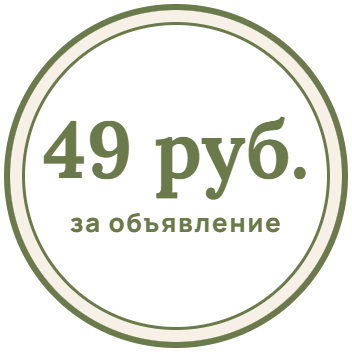
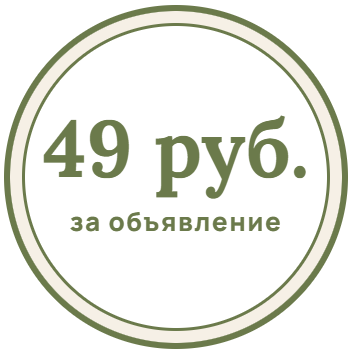
Убраны непроверенные факты из макетов
- «Почему у нас»: 49 руб., Без регистрации, Напрямую — без цифр и обещаний
- B: в телефоне «канал в Телеграме» вместо числа подписчиков
- Примеры: «Так будет выглядеть ваше объявление», без счетчиков просмотров
- FAQ: новые ответы про публикацию и запреты, убраны «процентов нет» и «удалим пост»
- Обновлены превью и PNG для Zero Block

Claude-Session: https://claude.ai/code/session_0134apRguhkK7nHMWZoqjHc8

diff --git a/variant-b/index.html b/variant-b/index.html
@@ -281,7 +281,6 @@ a { color: inherit; }
   color: #8A94A3;
   font-size: 11px;
 }
-.bubble-meta svg { width: 13px; height: 13px; }
 .inline-btn {
   display: block;
   margin-top: 5px;
@@ -422,7 +421,6 @@ a { color: inherit; }
   margin-top: 4px;
   color: #8A94A3; font-size: 12px;
 }
-.post-meta svg { width: 14px; height: 14px; }
 .post-btn {
   display: block;
   margin-top: 6px;
@@ -441,7 +439,7 @@ a { color: inherit; }
 .fact-blue { background: var(--tg); }
 .fact-white { background: var(--white); }
 .fact-sun { background: var(--sun); }
-.fact-big { font: 700 44px/1 var(--display); letter-spacing: -.04em; }
+.fact-big { font: 700 clamp(26px, 7.4vw, 32px)/1.05 var(--display); letter-spacing: -.04em; }
 .fact-label { margin-top: 10px; font-weight: 700; font-size: 17px; }
 .fact-text { margin-top: 6px; color: #1E2228; }
 
@@ -596,7 +594,6 @@ textarea.input { min-height: 112px; resize: vertical; }
   .feed { padding: 24px; }
   .field-row { grid-template-columns: 1fr 1fr; }
   .form-card { padding: 32px; }
-  .facts { grid-template-columns: repeat(3, minmax(0, 1fr)); }
 }
 
 /* ================= десктоп ================= */
@@ -660,10 +657,10 @@ textarea.input { min-height: 112px; resize: vertical; }
   .posts { grid-template-columns: repeat(4, minmax(0, 1fr)); gap: 18px; align-items: end; }
   .post-bubble img { aspect-ratio: 1; }
 
-  .facts { grid-template-columns: 1.2fr 1fr 1fr; gap: 16px; margin-top: 44px; }
-  .fact { padding: 34px 32px 36px; border-radius: var(--r-xl); min-height: 300px; display: flex; flex-direction: column; }
-  .fact-big { font-size: 60px; }
-  .fact-label { margin-top: auto; padding-top: 28px; font-size: 18px; }
+  .facts { grid-template-columns: minmax(0, 1fr) minmax(0, 1.35fr) minmax(0, 1fr); gap: 0 16px; margin-top: 44px; }
+  .fact { display: grid; grid-row: span 3; grid-template-rows: subgrid; row-gap: 0; padding: 34px 32px 36px; border-radius: var(--r-xl); }
+  .fact-big { font-size: clamp(26px, 2.5vw, 36px); }
+  .fact-label { margin-top: 64px; font-size: 18px; }
 
   .form-grid { grid-template-columns: minmax(0, 5fr) minmax(0, 7fr); gap: 64px; align-items: start; }
   .form-intro { padding-top: 20px; }
@@ -736,7 +733,7 @@ textarea.input { min-height: 112px; resize: vertical; }
               <div class="tg-head">
                 <svg class="back" viewBox="0 0 24 24"><path fill="none" stroke="currentColor" stroke-width="2.4" stroke-linecap="round" stroke-linejoin="round" d="M15 5 8 12l7 7"/></svg>
                 <span class="tg-ava"><svg viewBox="0 0 24 24"><path fill="#fff" d="M11.2 3.6h7.4c1 0 1.8.8 1.8 1.8v7.4c0 .5-.2.9-.5 1.3l-7.6 7.6c-.7.7-1.8.7-2.5 0l-6.5-6.5c-.7-.7-.7-1.8 0-2.5l7.6-7.6c.4-.3.8-.5 1.3-.5Zm4.9 2.5a1.8 1.8 0 1 0 0 3.6 1.8 1.8 0 0 0 0-3.6Z"/></svg></span>
-                <div><p class="tg-title">BLOSHINKA.com</p><p class="tg-subs">12&nbsp;400 подписчиков</p></div>
+                <div><p class="tg-title">BLOSHINKA.com</p><p class="tg-subs">канал в Телеграме</p></div>
                 <svg class="more" viewBox="0 0 24 24"><g fill="currentColor"><circle cx="12" cy="5" r="2"/><circle cx="12" cy="12" r="2"/><circle cx="12" cy="19" r="2"/></g></svg>
               </div>
               <div class="tg-chat">
@@ -748,7 +745,7 @@ textarea.input { min-height: 112px; resize: vertical; }
                     <p>Снимал все наши семейные праздники. Рабочий, с чехлом.</p>
                     <p>Цена: 3&nbsp;500&nbsp;₽<br>Город: Тюмень</p>
                     <p class="bubble-tags">#техника #винтаж</p>
-                    <p class="bubble-meta"><svg viewBox="0 0 24 24"><path fill="none" stroke="currentColor" stroke-width="2" d="M2 12s3.6-6.5 10-6.5S22 12 22 12s-3.6 6.5-10 6.5S2 12 2 12Z"/><circle cx="12" cy="12" r="2.8" fill="none" stroke="currentColor" stroke-width="2"/></svg>912&nbsp;&nbsp;12:40</p>
+                    <p class="bubble-meta">12:40</p>
                   </div>
                 </div>
                 <span class="inline-btn">Написать продавцу</span>
@@ -803,7 +800,7 @@ textarea.input { min-height: 112px; resize: vertical; }
   <section class="section section-gray" id="what" aria-labelledby="what-title">
     <div class="wrap">
       <h2 class="h2" id="what-title">Что можно продавать</h2>
-      <p class="lead">Если вещь вам больше не нужна, она найдет своего человека.</p>
+      <p class="lead">Вещи, которые вам больше не нужны, могут пригодиться кому-то еще.</p>
       <ul class="cats">
         <li class="cat">
           <span class="cat-icon"><img src="../assets/b/icon-clothes.svg" alt="" width="48" height="48"></span>
@@ -843,7 +840,7 @@ textarea.input { min-height: 112px; resize: vertical; }
   <section class="section" id="examples" aria-labelledby="examples-title">
     <div class="wrap">
       <h2 class="h2" id="examples-title">Примеры объявлений</h2>
-      <p class="lead">Так выглядят посты в канале. У каждой вещи своя история.</p>
+      <p class="lead">Так будет выглядеть ваше объявление в канале. У каждой вещи своя история.</p>
       <div class="feed">
         <div class="posts">
 
@@ -855,7 +852,7 @@ textarea.input { min-height: 112px; resize: vertical; }
                 <p>Досталась от дедушки. Все клавиши работают, лента новая.</p>
                 <p class="post-facts"><span>Цена: <b>7&nbsp;500&nbsp;₽</b></span><span>Город: Тюмень</span></p>
                 <p class="post-tags">#техника #винтаж</p>
-                <p class="post-meta"><svg viewBox="0 0 24 24" aria-hidden="true"><path fill="none" stroke="currentColor" stroke-width="2" d="M2 12s3.6-6.5 10-6.5S22 12 22 12s-3.6 6.5-10 6.5S2 12 2 12Z"/><circle cx="12" cy="12" r="2.8" fill="none" stroke="currentColor" stroke-width="2"/></svg>846&nbsp;&nbsp;14:32</p>
+                <p class="post-meta">14:32</p>
               </div>
             </div>
             <span class="post-btn" aria-hidden="true">Написать продавцу</span>
@@ -869,7 +866,7 @@ textarea.input { min-height: 112px; resize: vertical; }
                 <p>Плотный деним, носил пару сезонов. Без потертостей и пятен.</p>
                 <p class="post-facts"><span>Цена: <b>2&nbsp;800&nbsp;₽</b></span><span>Город: Екатеринбург</span></p>
                 <p class="post-tags">#одежда</p>
-                <p class="post-meta"><svg viewBox="0 0 24 24" aria-hidden="true"><path fill="none" stroke="currentColor" stroke-width="2" d="M2 12s3.6-6.5 10-6.5S22 12 22 12s-3.6 6.5-10 6.5S2 12 2 12Z"/><circle cx="12" cy="12" r="2.8" fill="none" stroke="currentColor" stroke-width="2"/></svg>612&nbsp;&nbsp;12:05</p>
+                <p class="post-meta">12:05</p>
               </div>
             </div>
             <span class="post-btn" aria-hidden="true">Написать продавцу</span>
@@ -883,7 +880,7 @@ textarea.input { min-height: 112px; resize: vertical; }
                 <p>Жил на полке, в него почти не играли. Ищет новый дом.</p>
                 <p class="post-facts"><span>Цена: <b>1&nbsp;200&nbsp;₽</b></span><span>Город: Тобольск</span></p>
                 <p class="post-tags">#детские_вещи</p>
-                <p class="post-meta"><svg viewBox="0 0 24 24" aria-hidden="true"><path fill="none" stroke="currentColor" stroke-width="2" d="M2 12s3.6-6.5 10-6.5S22 12 22 12s-3.6 6.5-10 6.5S2 12 2 12Z"/><circle cx="12" cy="12" r="2.8" fill="none" stroke="currentColor" stroke-width="2"/></svg>731&nbsp;&nbsp;10:47</p>
+                <p class="post-meta">10:47</p>
               </div>
             </div>
             <span class="post-btn" aria-hidden="true">Написать продавцу</span>
@@ -897,7 +894,7 @@ textarea.input { min-height: 112px; resize: vertical; }
                 <p>Чашки, пиалы и вазы ручной работы. Продаю вместе или по отдельности, отправлю по России.</p>
                 <p class="post-facts"><span>Цена: <b>3&nbsp;400&nbsp;₽</b></span><span>Город: Москва</span></p>
                 <p class="post-tags">#дом #авторское</p>
-                <p class="post-meta"><svg viewBox="0 0 24 24" aria-hidden="true"><path fill="none" stroke="currentColor" stroke-width="2" d="M2 12s3.6-6.5 10-6.5S22 12 22 12s-3.6 6.5-10 6.5S2 12 2 12Z"/><circle cx="12" cy="12" r="2.8" fill="none" stroke="currentColor" stroke-width="2"/></svg>958&nbsp;&nbsp;09:18</p>
+                <p class="post-meta">09:18</p>
               </div>
             </div>
             <span class="post-btn" aria-hidden="true">Написать продавцу</span>
@@ -913,20 +910,20 @@ textarea.input { min-height: 112px; resize: vertical; }
     <div class="wrap">
       <h2 class="h2" id="why-title">Почему у нас</h2>
       <ul class="facts">
-        <li class="fact fact-blue">
-          <p class="fact-big">12&nbsp;400</p>
-          <p class="fact-label">подписчиков в канале</p>
-          <p class="fact-text">Ваше объявление увидят тысячи людей, которые читают канал каждый день.</p>
-        </li>
-        <li class="fact fact-white">
-          <p class="fact-big">24&nbsp;часа</p>
-          <p class="fact-label">максимум до публикации</p>
-          <p class="fact-text">Обычно пост выходит через несколько часов после оплаты. Ссылку пришлем в Телеграм.</p>
-        </li>
         <li class="fact fact-sun">
           <p class="fact-big">49&nbsp;руб.</p>
           <p class="fact-label">за одно объявление</p>
-          <p class="fact-text">Фиксированная цена без процентов с продажи.</p>
+          <p class="fact-text">Фиксированная цена, оплата переводом после нашего сообщения.</p>
+        </li>
+        <li class="fact fact-blue">
+          <p class="fact-big">Без регистрации</p>
+          <p class="fact-label">заявка прямо на сайте</p>
+          <p class="fact-text">Заполните форму, остальное сделаем мы.</p>
+        </li>
+        <li class="fact fact-white">
+          <p class="fact-big">Напрямую</p>
+          <p class="fact-label">покупатели пишут вам</p>
+          <p class="fact-text">О цене и передаче договариваетесь сами, без посредников.</p>
         </li>
       </ul>
     </div>
@@ -1022,7 +1019,7 @@ textarea.input { min-height: 112px; resize: vertical; }
       <div class="faq-list">
         <details class="faq-item">
           <summary>Сколько стоит?</summary>
-          <div class="answer"><p>Размещение одного объявления стоит 49&nbsp;руб. Процентов с продажи нет: покупатели пишут вам напрямую, и вы договариваетесь сами.</p></div>
+          <div class="answer"><p>Размещение одного объявления стоит 49&nbsp;руб. Покупатели пишут вам напрямую, и о цене вы договариваетесь сами.</p></div>
         </details>
         <details class="faq-item">
           <summary>Как оплатить?</summary>
@@ -1030,15 +1027,15 @@ textarea.input { min-height: 112px; resize: vertical; }
         </details>
         <details class="faq-item">
           <summary>Когда выйдет объявление?</summary>
-          <div class="answer"><p>Обычно через несколько часов после оплаты, максимум&nbsp;— в течение суток. Когда пост выйдет, мы пришлем вам ссылку.</p></div>
+          <div class="answer"><p>После оплаты мы публикуем пост в канале и присылаем вам ссылку.</p></div>
         </details>
         <details class="faq-item">
           <summary>Можно ли снять объявление, если вещь продана?</summary>
-          <div class="answer"><p>Да. Напишите нам в Телеграм, и мы удалим пост или отметим, что вещь уже продана.</p></div>
+          <div class="answer"><p>Напишите нам в Телеграм&nbsp;— обсудим, что сделать с постом.</p></div>
         </details>
         <details class="faq-item">
           <summary>Что нельзя размещать?</summary>
-          <div class="answer"><p>Товары, запрещенные законом: оружие, лекарства, алкоголь, табак и вейпы, подделки брендов. Также не публикуем рекламу услуг и объявления без фото.</p></div>
+          <div class="answer"><p>Товары, запрещенные законом. Если сомневаетесь, подойдет ли ваша вещь, напишите нам в Телеграм до заявки.</p></div>
         </details>
       </div>
     </div>

diff --git a/variant-a/index.html b/variant-a/index.html
@@ -551,8 +551,6 @@ a { color: inherit; }
   font-weight: 700;
   font-size: 15px;
 }
-.post-stats span { display: inline-flex; align-items: center; gap: 4px; }
-.post-stats svg { width: 16px; height: 16px; }
 
 /* почему у нас */
 .facts {
@@ -561,7 +559,7 @@ a { color: inherit; }
   margin-top: 36px;
 }
 .fact { padding-top: 22px; border-top: 1px dashed rgba(255, 255, 255, .5); }
-.fact-big { font: 600 44px/1.05 var(--serif); letter-spacing: -.01em; }
+.fact-big { font: 600 clamp(32px, 9.6vw, 40px)/1.08 var(--serif); letter-spacing: -.01em; }
 .fact-label { margin-top: 6px; font-weight: 700; font-size: 17px; }
 .fact-text { margin-top: 8px; max-width: 30em; color: rgba(255, 255, 255, .9); }
 
@@ -734,7 +732,9 @@ textarea.input { min-height: 112px; resize: vertical; }
   .posts { grid-template-columns: repeat(2, minmax(0, 1fr)); max-width: none; }
   .field-row { grid-template-columns: 1fr 1fr; }
   .form-card { padding: 36px 32px 32px; }
-  .facts { grid-template-columns: repeat(3, minmax(0, 1fr)); gap: 28px; }
+  .facts { grid-template-columns: repeat(3, minmax(0, 1fr)); gap: 0 28px; }
+  .fact { display: grid; grid-row: span 3; grid-template-rows: subgrid; row-gap: 0; }
+  .fact-big { font-size: 30px; }
 }
 
 /* ================= десктоп ================= */
@@ -808,8 +808,8 @@ textarea.input { min-height: 112px; resize: vertical; }
   .post:nth-child(even) { transform: translateY(18px); }
   .post-photo img { aspect-ratio: 1; }
 
-  .fact-big { font-size: 54px; }
-  .facts { margin-top: 48px; gap: 40px; }
+  .fact-big { font-size: 40px; }
+  .facts { margin-top: 48px; gap: 0 40px; }
 
   .form-grid { grid-template-columns: minmax(0, 5fr) minmax(0, 7fr); gap: 64px; align-items: start; }
   .form-intro { position: sticky; top: 32px; padding-top: 24px; }
@@ -936,7 +936,7 @@ textarea.input { min-height: 112px; resize: vertical; }
   <section class="section section-kraft" id="what" aria-labelledby="what-title">
     <div class="wrap">
       <h2 class="h2" id="what-title">Что можно продавать</h2>
-      <p class="lead">Если вещь вам больше не нужна, она найдет своего человека.</p>
+      <p class="lead">Вещи, которые вам больше не нужны, могут пригодиться кому-то еще.</p>
       <ul class="cats">
         <li class="cat">
           <img src="../assets/a/icon-clothes.svg" alt="" width="64" height="64">
@@ -976,7 +976,7 @@ textarea.input { min-height: 112px; resize: vertical; }
   <section class="section" id="examples" aria-labelledby="examples-title">
     <div class="wrap">
       <h2 class="h2" id="examples-title">Примеры объявлений</h2>
-      <p class="lead">Так выглядят посты в канале. У каждой вещи своя история.</p>
+      <p class="lead">Так будет выглядеть ваше объявление в канале. У каждой вещи своя история.</p>
       <div class="posts">
 
         <article class="post">
@@ -994,7 +994,7 @@ textarea.input { min-height: 112px; resize: vertical; }
             </div>
             <div class="post-line">
               <p class="post-tags">#техника #винтаж</p>
-              <span class="post-stats"><span><svg viewBox="0 0 24 24" aria-hidden="true"><path fill="none" stroke="currentColor" stroke-width="1.8" d="M2 12s3.6-6.5 10-6.5S22 12 22 12s-3.6 6.5-10 6.5S2 12 2 12Z"/><circle cx="12" cy="12" r="2.8" fill="none" stroke="currentColor" stroke-width="1.8"/></svg>846</span><time>14:32</time></span>
+              <span class="post-stats"><time>14:32</time></span>
             </div>
           </div>
           <span class="post-btn" aria-hidden="true">Написать продавцу</span>
@@ -1015,7 +1015,7 @@ textarea.input { min-height: 112px; resize: vertical; }
             </div>
             <div class="post-line">
               <p class="post-tags">#одежда</p>
-              <span class="post-stats"><span><svg viewBox="0 0 24 24" aria-hidden="true"><path fill="none" stroke="currentColor" stroke-width="1.8" d="M2 12s3.6-6.5 10-6.5S22 12 22 12s-3.6 6.5-10 6.5S2 12 2 12Z"/><circle cx="12" cy="12" r="2.8" fill="none" stroke="currentColor" stroke-width="1.8"/></svg>612</span><time>12:05</time></span>
+              <span class="post-stats"><time>12:05</time></span>
             </div>
           </div>
           <span class="post-btn" aria-hidden="true">Написать продавцу</span>
@@ -1036,7 +1036,7 @@ textarea.input { min-height: 112px; resize: vertical; }
             </div>
             <div class="post-line">
               <p class="post-tags">#детские_вещи</p>
-              <span class="post-stats"><span><svg viewBox="0 0 24 24" aria-hidden="true"><path fill="none" stroke="currentColor" stroke-width="1.8" d="M2 12s3.6-6.5 10-6.5S22 12 22 12s-3.6 6.5-10 6.5S2 12 2 12Z"/><circle cx="12" cy="12" r="2.8" fill="none" stroke="currentColor" stroke-width="1.8"/></svg>731</span><time>10:47</time></span>
+              <span class="post-stats"><time>10:47</time></span>
             </div>
           </div>
           <span class="post-btn" aria-hidden="true">Написать продавцу</span>
@@ -1057,7 +1057,7 @@ textarea.input { min-height: 112px; resize: vertical; }
             </div>
             <div class="post-line">
               <p class="post-tags">#дом #авторское</p>
-              <span class="post-stats"><span><svg viewBox="0 0 24 24" aria-hidden="true"><path fill="none" stroke="currentColor" stroke-width="1.8" d="M2 12s3.6-6.5 10-6.5S22 12 22 12s-3.6 6.5-10 6.5S2 12 2 12Z"/><circle cx="12" cy="12" r="2.8" fill="none" stroke="currentColor" stroke-width="1.8"/></svg>958</span><time>09:18</time></span>
+              <span class="post-stats"><time>09:18</time></span>
             </div>
           </div>
           <span class="post-btn" aria-hidden="true">Написать продавцу</span>
@@ -1073,19 +1073,19 @@ textarea.input { min-height: 112px; resize: vertical; }
       <h2 class="h2" id="why-title">Почему у нас</h2>
       <ul class="facts">
         <li class="fact">
-          <p class="fact-big">12&nbsp;400</p>
-          <p class="fact-label">подписчиков в канале</p>
-          <p class="fact-text">Ваше объявление увидят тысячи людей, которые читают канал каждый день.</p>
-        </li>
-        <li class="fact">
-          <p class="fact-big">24&nbsp;часа</p>
-          <p class="fact-label">максимум до публикации</p>
-          <p class="fact-text">Обычно пост выходит через несколько часов после оплаты. Ссылку пришлем в Телеграм.</p>
-        </li>
-        <li class="fact">
           <p class="fact-big">49&nbsp;руб.</p>
           <p class="fact-label">за одно объявление</p>
-          <p class="fact-text">Фиксированная цена без процентов с продажи.</p>
+          <p class="fact-text">Фиксированная цена, оплата переводом после нашего сообщения.</p>
+        </li>
+        <li class="fact">
+          <p class="fact-big">Без регистрации</p>
+          <p class="fact-label">заявка прямо на сайте</p>
+          <p class="fact-text">Заполните форму, остальное сделаем мы.</p>
+        </li>
+        <li class="fact">
+          <p class="fact-big">Напрямую</p>
+          <p class="fact-label">покупатели пишут вам</p>
+          <p class="fact-text">О цене и передаче договариваетесь сами, без посредников.</p>
         </li>
       </ul>
     </div>
@@ -1175,7 +1175,7 @@ textarea.input { min-height: 112px; resize: vertical; }
       <div class="faq-list">
         <details class="faq-item">
           <summary>Сколько стоит?</summary>
-          <div class="answer"><p>Размещение одного объявления стоит 49&nbsp;руб. Процентов с продажи нет: покупатели пишут вам напрямую, и вы договариваетесь сами.</p></div>
+          <div class="answer"><p>Размещение одного объявления стоит 49&nbsp;руб. Покупатели пишут вам напрямую, и о цене вы договариваетесь сами.</p></div>
         </details>
         <details class="faq-item">
           <summary>Как оплатить?</summary>
@@ -1183,15 +1183,15 @@ textarea.input { min-height: 112px; resize: vertical; }
         </details>
         <details class="faq-item">
           <summary>Когда выйдет объявление?</summary>
-          <div class="answer"><p>Обычно через несколько часов после оплаты, максимум&nbsp;— в течение суток. Когда пост выйдет, мы пришлем вам ссылку.</p></div>
+          <div class="answer"><p>После оплаты мы публикуем пост в канале и присылаем вам ссылку.</p></div>
         </details>
         <details class="faq-item">
           <summary>Можно ли снять объявление, если вещь продана?</summary>
-          <div class="answer"><p>Да. Напишите нам в Телеграм, и мы удалим пост или отметим, что вещь уже продана.</p></div>
+          <div class="answer"><p>Напишите нам в Телеграм&nbsp;— обсудим, что сделать с постом.</p></div>
         </details>
         <details class="faq-item">
           <summary>Что нельзя размещать?</summary>
-          <div class="answer"><p>Товары, запрещенные законом: оружие, лекарства, алкоголь, табак и вейпы, подделки брендов. Также не публикуем рекламу услуг и объявления без фото.</p></div>
+          <div class="answer"><p>Товары, запрещенные законом. Если сомневаетесь, подойдет ли ваша вещь, напишите нам в Телеграм до заявки.</p></div>
         </details>
       </div>
     </div>
